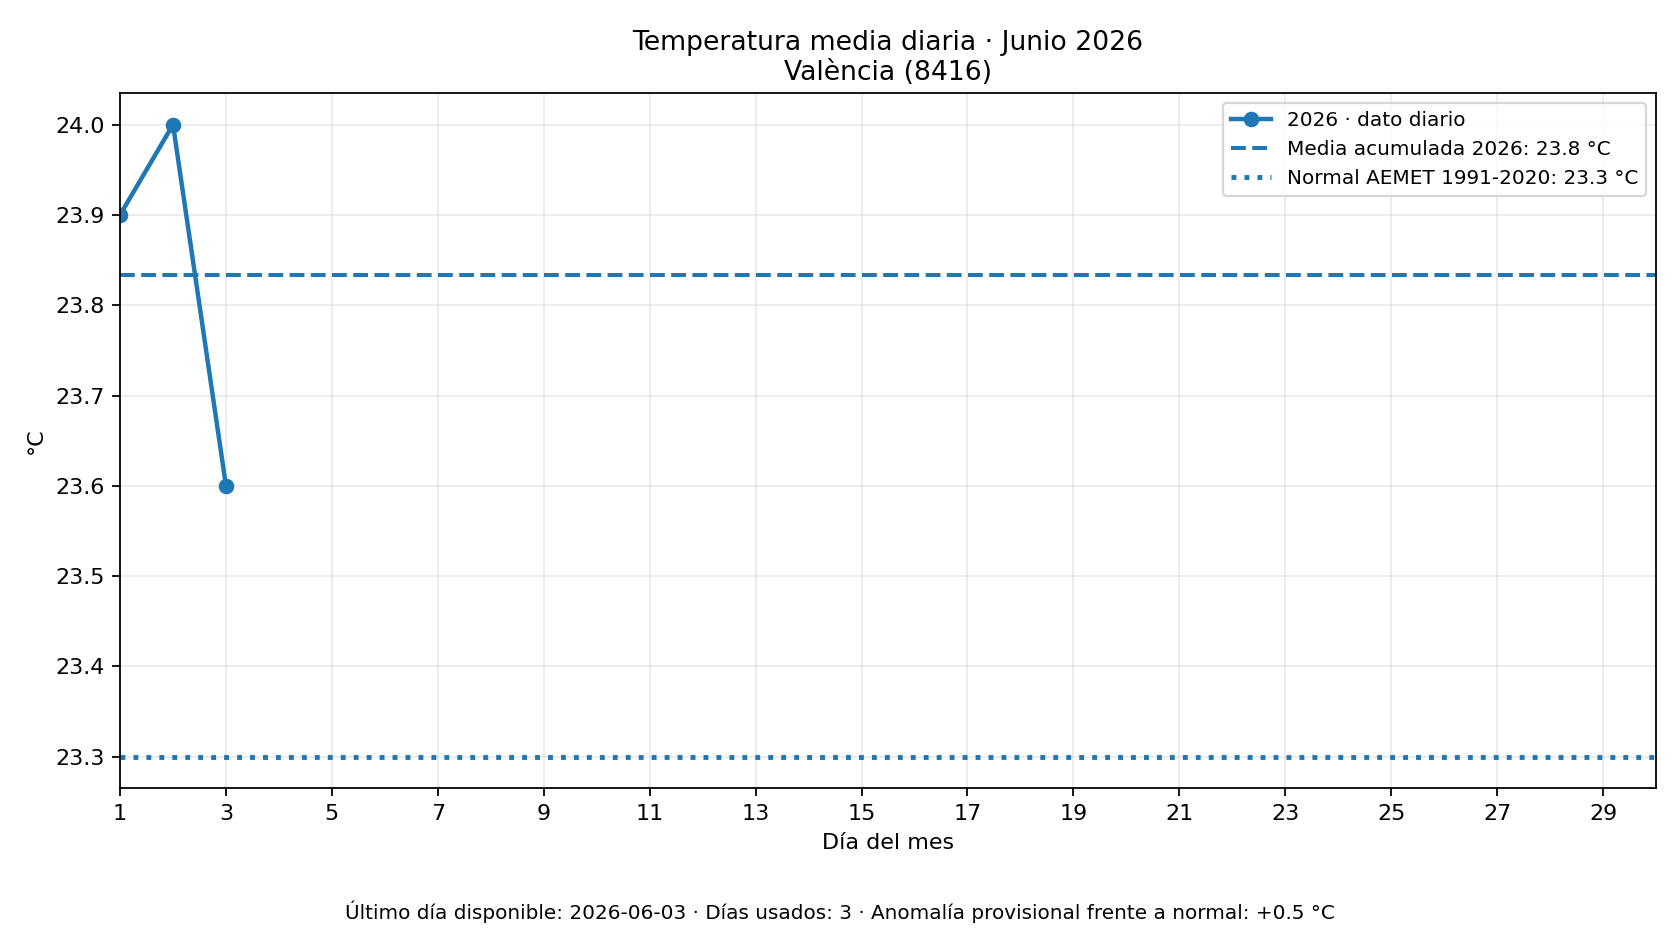
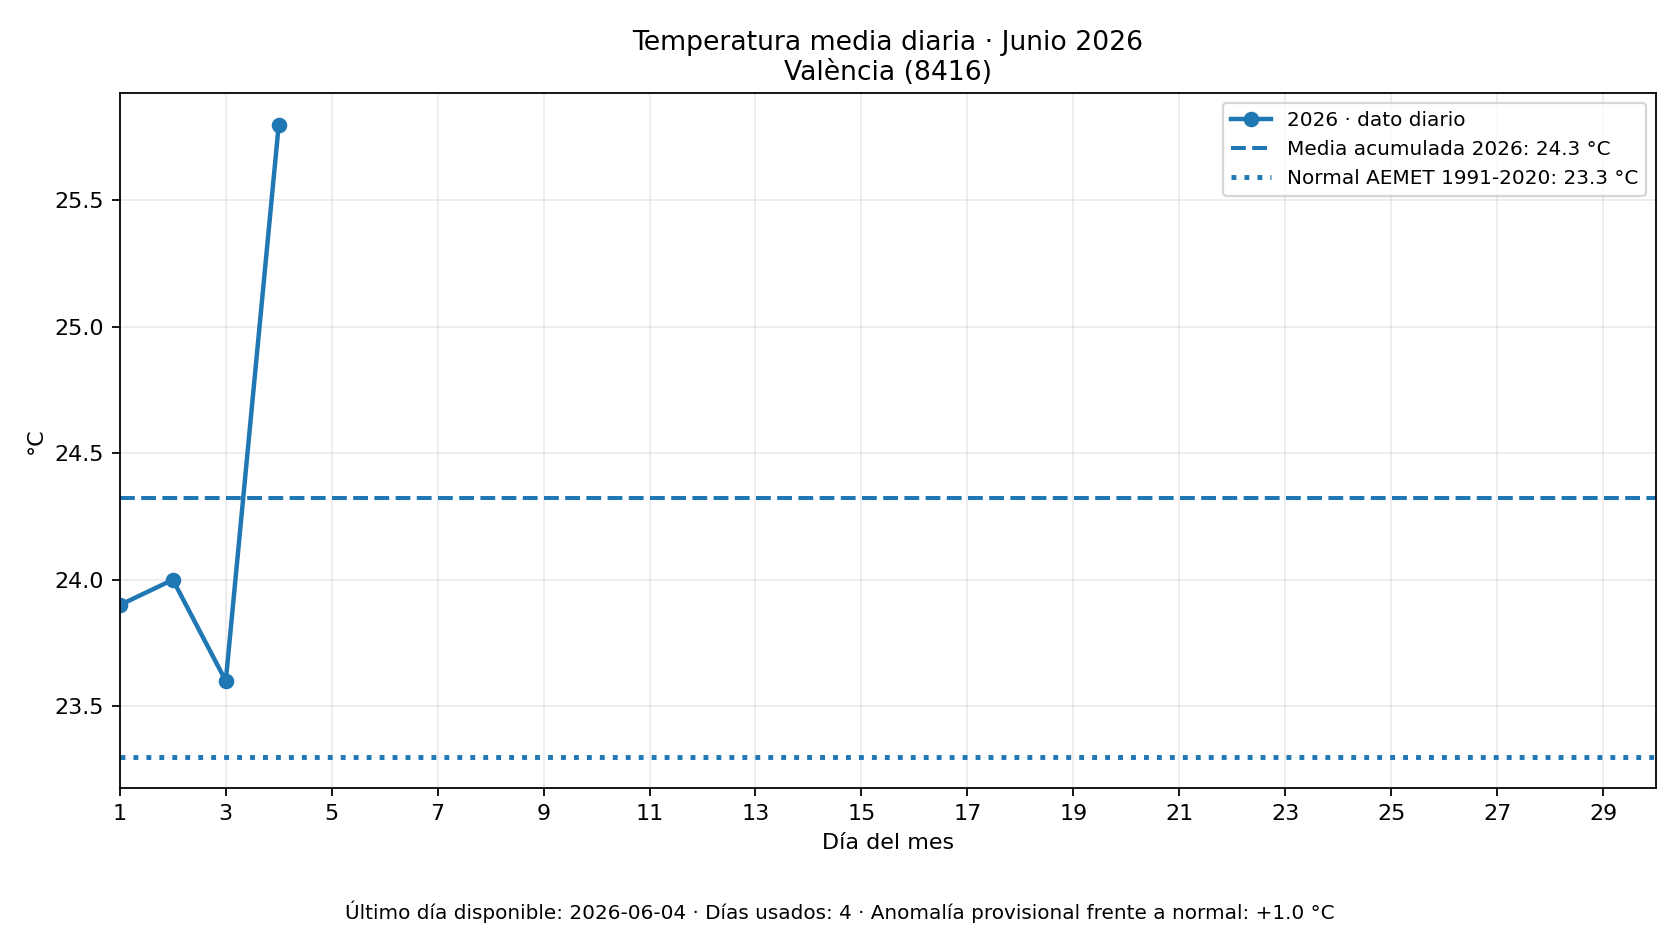
Actualizar clima AEMET

diff --git a/docs/clima/index.html b/docs/clima/index.html
@@ -104,7 +104,7 @@
 <p><strong>Periodo:</strong> Junio 2026</p>
 <p><strong>Referencia:</strong> normal climática oficial AEMET 1991-2020 del mismo mes</p>
 <p><strong>Variables:</strong> Temperatura media mensual</p>
-<p><strong>Actualización del visor:</strong> 06/06/2026 17:02 hora peninsular</p>
+<p><strong>Actualización del visor:</strong> 07/06/2026 17:44 hora peninsular</p>
 </section>
 <main class="grid">
 <section class="estacion">
@@ -112,12 +112,12 @@
 <article class="variable">
 <h3>Temperatura media mensual</h3>
 <div class="datos">
-<div class='dato'><strong>23.8</strong>Media actual °C</div>
+<div class='dato'><strong>24.3</strong>Media actual °C</div>
 <div class='dato'><strong>23.3</strong>Normal 1991-2020 °C</div>
-<div class='dato'><strong>+0.5</strong>Anomalía °C</div>
+<div class='dato'><strong>+1.0</strong>Anomalía °C</div>
 </div>
 <img src='graficos/8416_tmed_202606_normal_1991_2020.png' alt='Temperatura media mensual en València'>
-<p class='codigo'>Último día disponible: 2026-06-03 · Días usados: 3</p>
+<p class='codigo'>Último día disponible: 2026-06-04 · Días usados: 4</p>
 </article>
 </section>
 <section class="estacion">
@@ -125,12 +125,12 @@
 <article class="variable">
 <h3>Temperatura media mensual</h3>
 <div class="datos">
-<div class='dato'><strong>26.1</strong>Media actual °C</div>
+<div class='dato'><strong>26.6</strong>Media actual °C</div>
 <div class='dato'><strong>24.5</strong>Normal 1991-2020 °C</div>
-<div class='dato'><strong>+1.6</strong>Anomalía °C</div>
+<div class='dato'><strong>+2.1</strong>Anomalía °C</div>
 </div>
 <img src='graficos/8293X_tmed_202606_normal_1991_2020.png' alt='Temperatura media mensual en Xàtiva'>
-<p class='codigo'>Último día disponible: 2026-06-03 · Días usados: 3</p>
+<p class='codigo'>Último día disponible: 2026-06-04 · Días usados: 4</p>
 </article>
 </section>
 </main>
